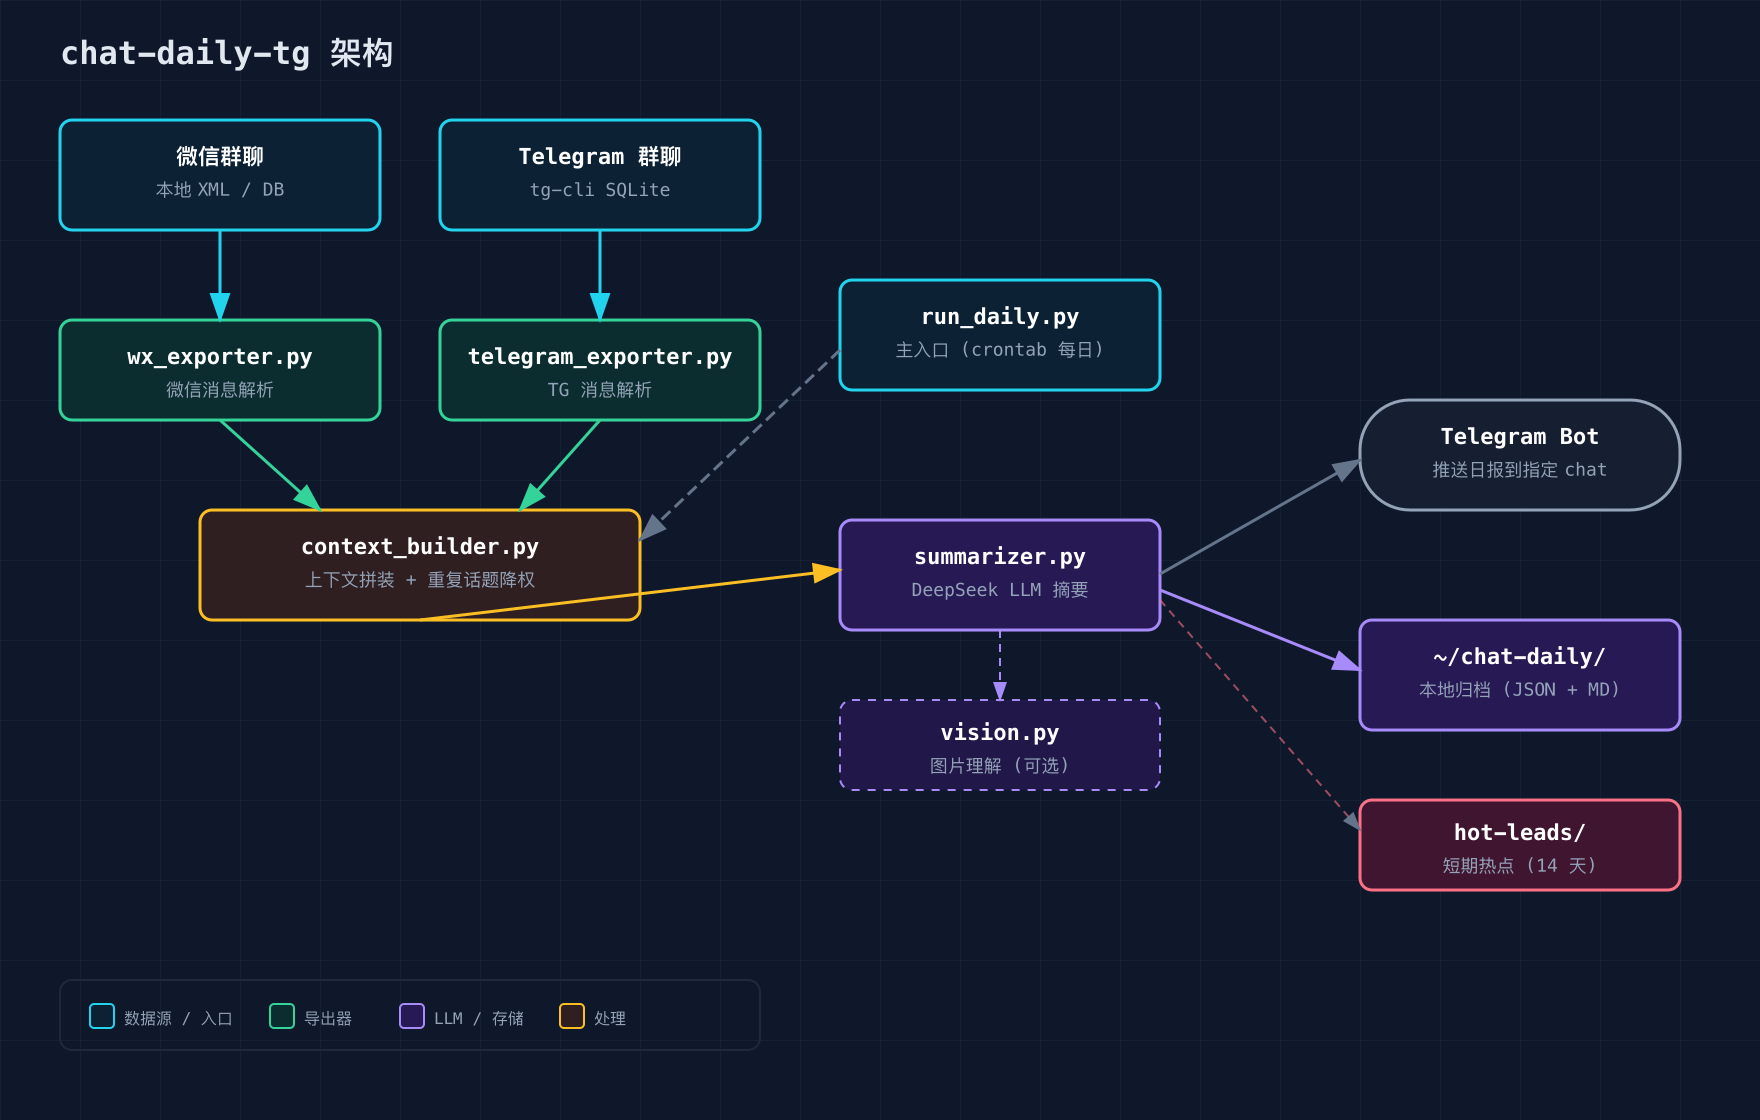
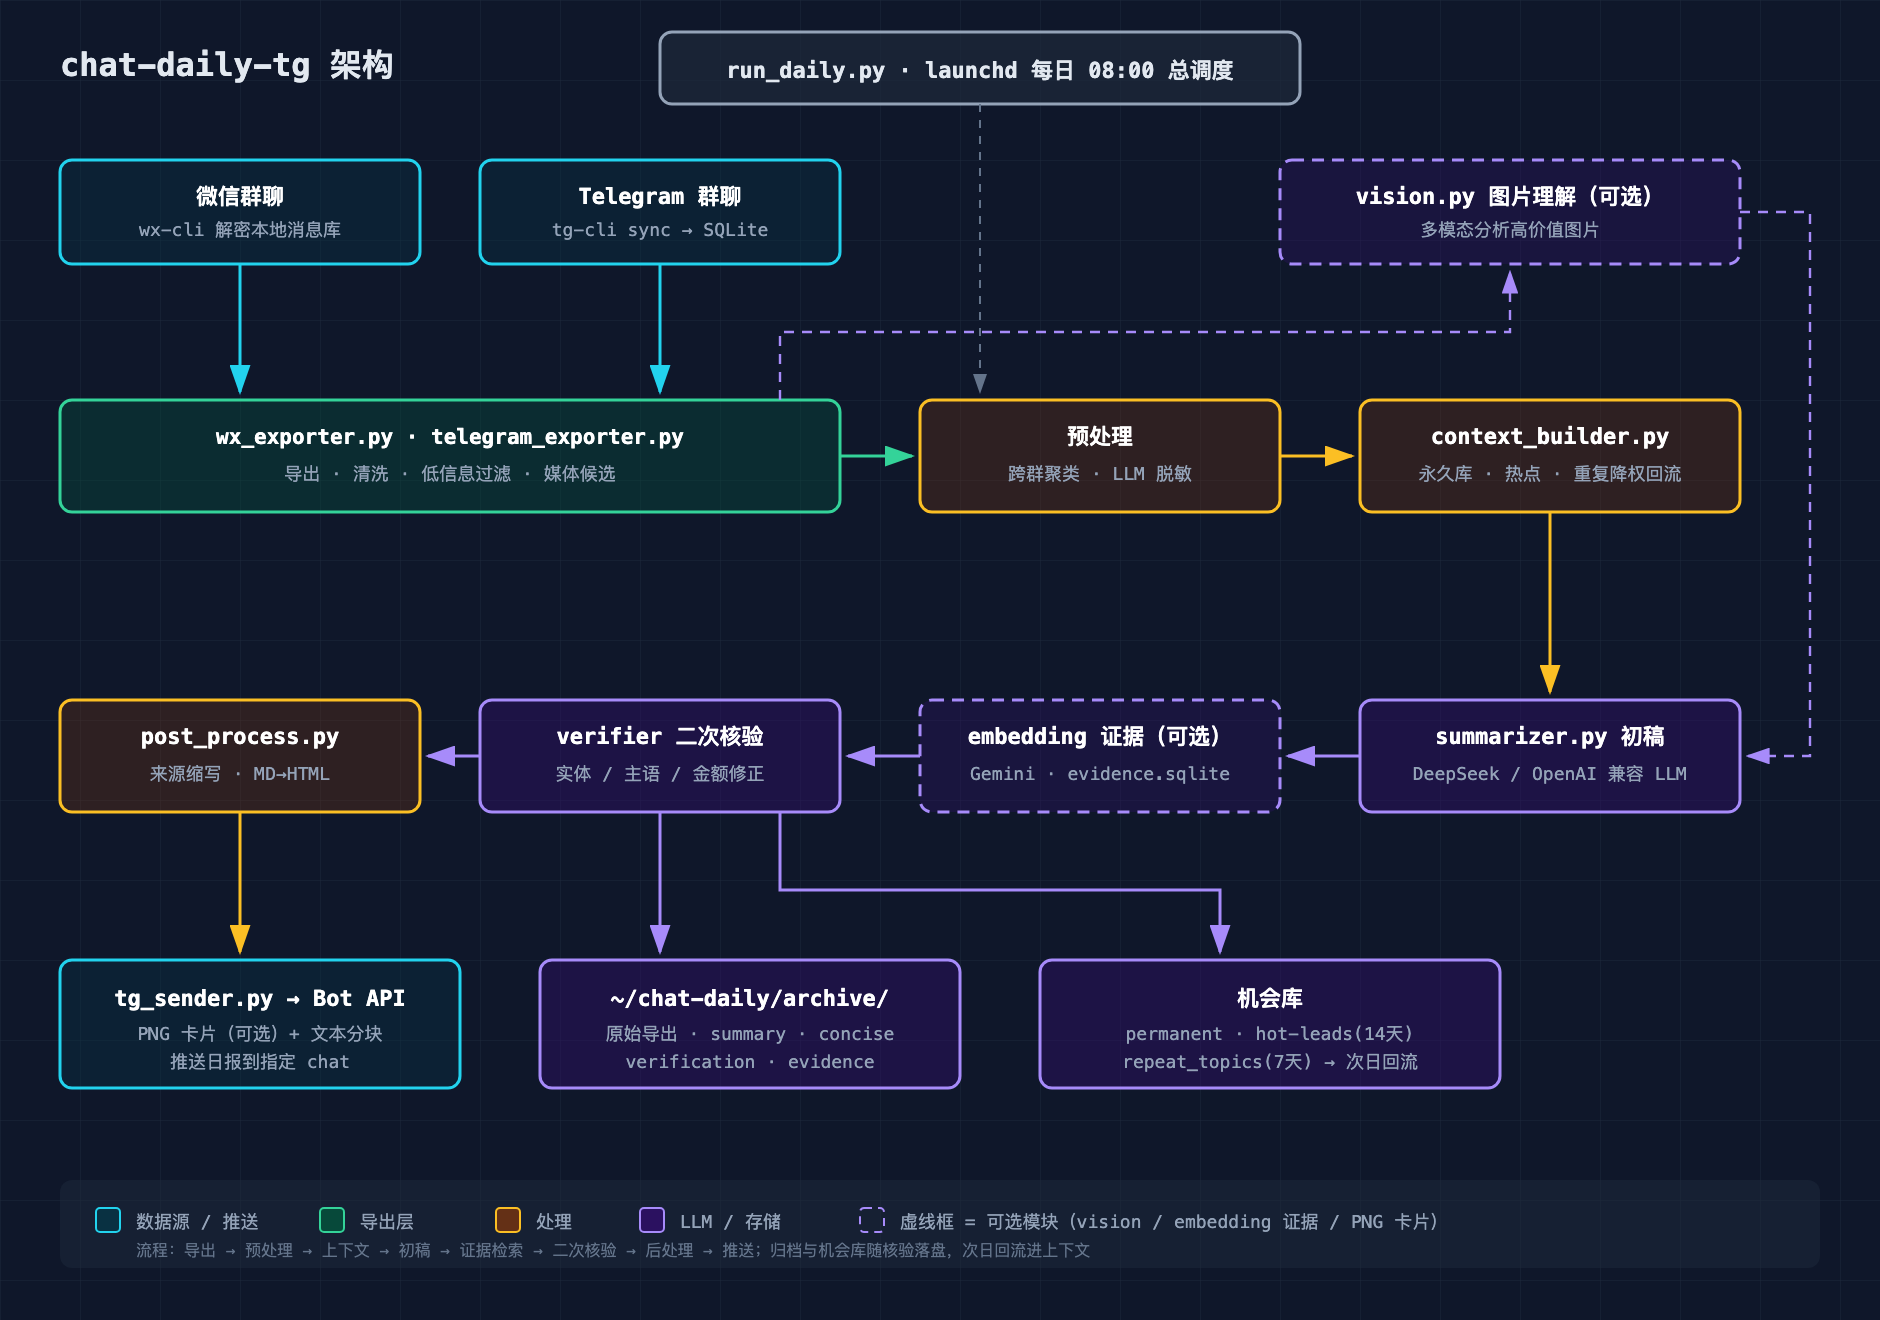
docs: refresh architecture diagram (verifier/embedding/card, launchd) and document wx-cli setup

diff --git a/README.md b/README.md
@@ -4,13 +4,15 @@
 
 ## 架构
 
-![chat-daily-tg 架构](chat-daily-architecture-redraw.png)
+![chat-daily-tg 架构](chat-daily-architecture.png)
+
+<sub>源文件 `diagram/chat-daily-architecture.svg`，改完用 headless Chrome 截图重渲：`chrome --headless=new --force-device-scale-factor=2 --window-size=940,660 --screenshot=chat-daily-architecture.png file://$PWD/diagram/chat-daily-architecture.svg`</sub>
 
 ## 功能清单
 
 | 功能 | 说明 |
 |---|---|
-| 微信群导出 | 通过本地 XML/DB 读取指定微信群前一天聊天 |
+| 微信群导出 | 通过 [wx-cli](https://github.com/jackwener/wx-cli) 解密读取本地微信消息库，导出指定群前一天聊天 |
 | Telegram 群导出 | 通过 [tg-cli](https://github.com/public-clis/tg-cli) 本地 SQLite 读取 |
 | LLM 摘要 | 调用 DeepSeek 生成适合手机阅读的统一简报 |
 | 二次事实核验 | summary 初稿后再跑 verifier，修正无证据实体补全、主语错贴、跨消息缝合 |
@@ -76,6 +78,22 @@
 ```
 
 ## 配置
+
+### 微信导出前置（wx-cli）
+
+微信侧依赖 [wx-cli](https://github.com/jackwener/wx-cli) 读取本机微信客户端的本地消息库：
+
+```bash
+npm install -g @jackwener/wx-cli
+wx init                # 检测微信数据目录并扫描解密密钥
+wx export "<群名>" --since 2026-06-10 --until 2026-06-11 --limit 10   # 验证能导出
+```
+
+说明：
+
+- `wx_exporter` 优先调用 PATH 上的 `wx`，找不到时回退 `/opt/homebrew/bin/wx`
+- 只能读取本机已登录微信桌面客户端同步下来的消息，换机或重装后需重新 `wx init`
+- 只用 Telegram 侧时可以不装：`sources.wechat.groups` 留空即可
 
 ### 环境变量
 
@@ -187,6 +205,7 @@ pytest -v
 
 | 工具 | 用途 |
 |---|---|
+| [wx-cli](https://github.com/jackwener/wx-cli) | 微信本地消息库解密导出（`npm i -g @jackwener/wx-cli`） |
 | [tg-cli](https://github.com/public-clis/tg-cli) | Telegram 本地 SQLite 导出 |
 | [DeepSeek API](https://api-docs.deepseek.com/) | 默认 LLM 摘要 |
 | [BotFather](https://t.me/BotFather) | 创建 Telegram bot |